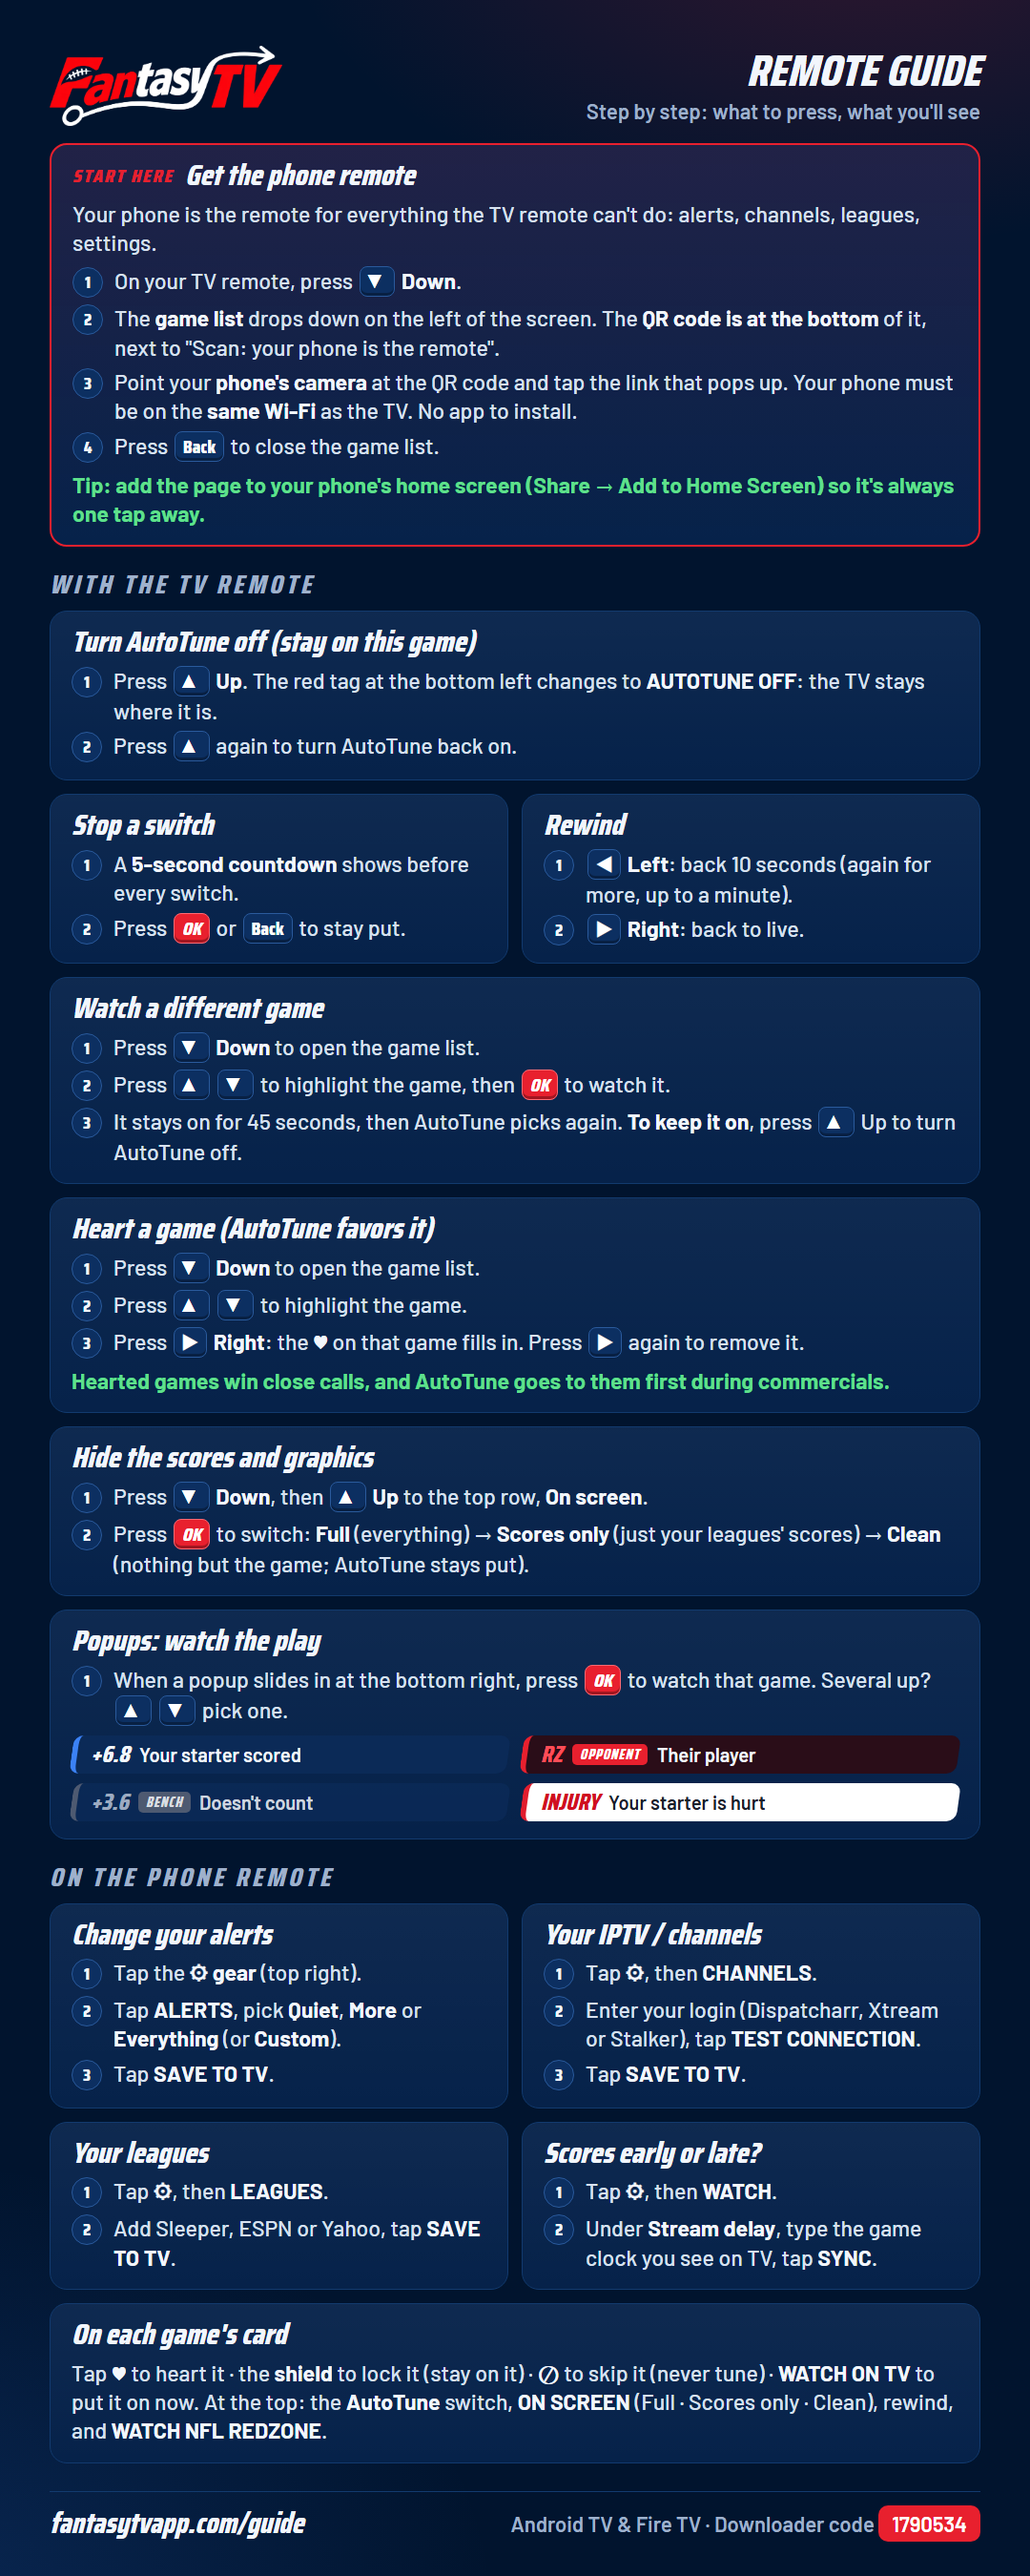
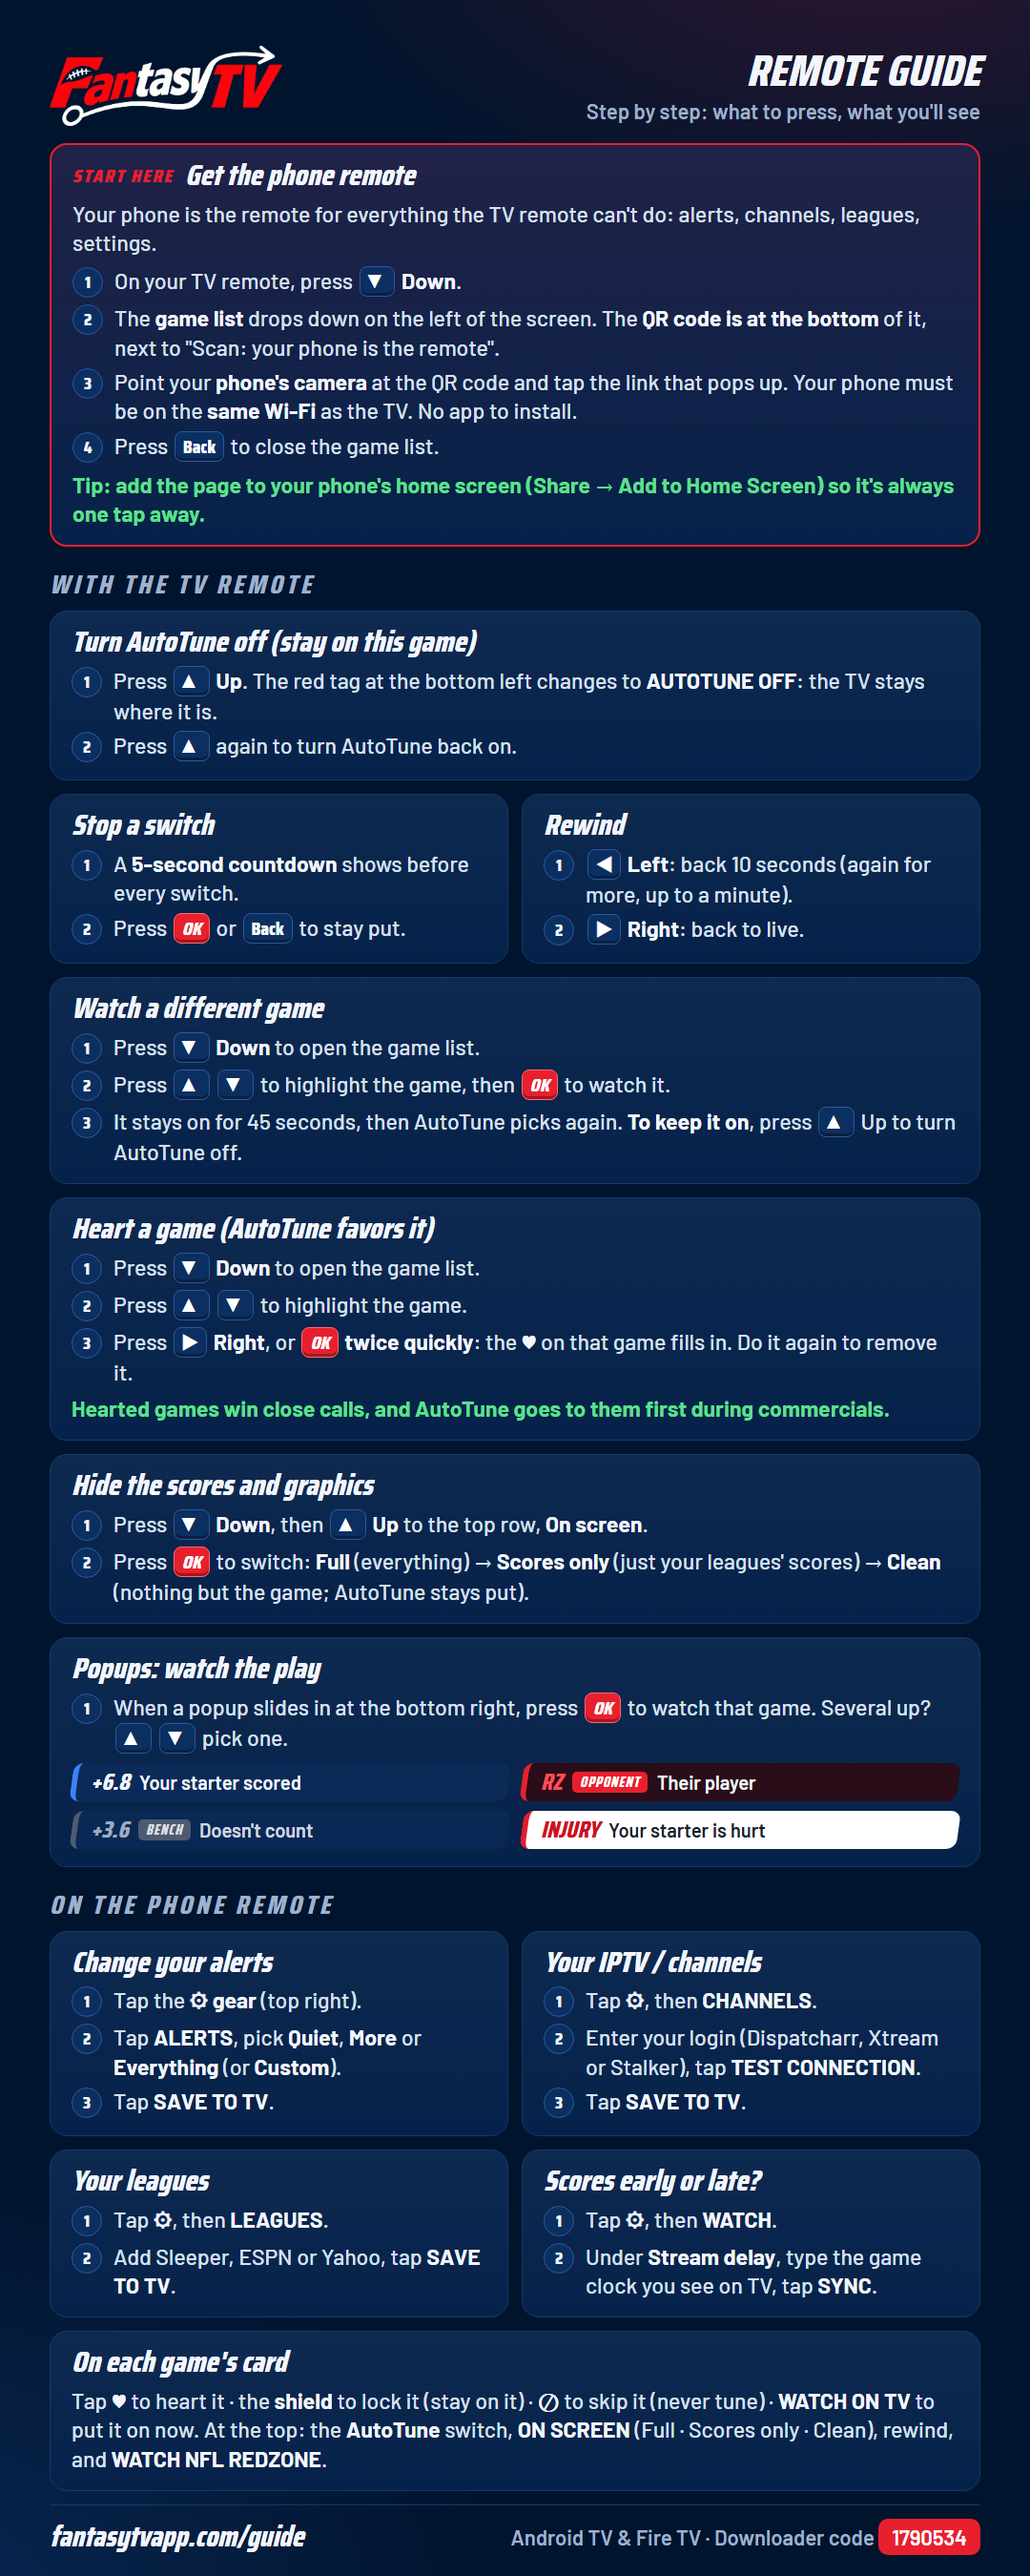
1.0.60: fixes Shield crashes and the picture jumping back (largeHeap, rewind buffer sized to memory, clean restart after a provider reconnect); AutoTune no longer hops between commercials; OK twice hearts a game

Changed region(s): [[0.0306, 0.4978, 0.9778, 0.9956]]

diff --git a/web/js/tv.js b/web/js/tv.js
@@ -699,6 +699,7 @@ function loop() {
     const key = g.sit.lastPlay.text, seen = lastPlaySeen[g.id];
     if (!seen || seen.key !== key) lastPlaySeen[g.id] = { key, at: Date.now() };
     else if (Date.now() - seen.at > 75e3 && !g.onBreak) { g.onBreak = true; g.breakWhy = 'No play for a while'; g.value *= 0.25; g.onField *= 0.25; }
+    g.playAgo = (Date.now() - lastPlaySeen[g.id].at) / 1000;   // seconds since its last new play (as your screen has it)
   }
   const cur = game(auto.current);
   // A missing score bug alone is often a replay, a sideline shot or a graphic, mid-drive. Believe it at once when ESPN
@@ -1404,6 +1405,8 @@ function radarList() {
   return [...(up ? [up] : []), { view: true, id: 'view' }, ...(rz ? [rz] : []), ...live.filter(mine), ...live.filter(g => !mine(g)), ...ranked.filter(g => g.state === 'pre'), ...chk];
 }
 const RADAR_ROWS = 5;   // shown at once; the list scrolls with the focus
+const DOUBLE_OK_MS = 350;   // OK twice within this hearts a game in the list; once watches it after it
+let okWait = null;          // {id, t}: a first OK on a game, waiting to see if a second one comes
 
 function renderRadar() {
   const list = radarList();
@@ -1907,7 +1910,7 @@ const TOUR = [
   { key: '▲', target: '#atTag', title: 'Up: AutoTune on / off',
     text: 'AutoTune switches to the game that matters most to your lineup. Press Up to stay where you are; Up again turns it back on. Before a switch, a 5 second countdown shows: OK or Back cancels it.' },
   { key: '▼', target: '#radar', radar: true, right: true, title: 'Down: every game',
-    text: 'All the live games, yours first. Up and Down move, OK watches a game, ▶ hearts it (AutoTune favors hearted games in close calls), Back closes the list. A game you pick stays on for 45 seconds (less if it goes to a commercial), then AutoTune takes over again. To stay on it, turn AutoTune off with Up.' },
+    text: 'All the live games, yours first. Up and Down move, OK watches a game, ▶ (or OK twice) hearts it (AutoTune favors hearted games in close calls), Back closes the list. A game you pick stays on for 45 seconds (less if it goes to a commercial), then AutoTune takes over again. To stay on it, turn AutoTune off with Up.' },
   { key: 'OK', target: '#radar .viewrow', radar: true, right: true, title: "Top of the list: what's on screen",
     text: "OK on the On screen row switches what sits over the game. Full: everything. Scores only: just your leagues' scores, with small popups for your big plays (NFL RedZone switches to it by itself). Clean: nothing but the game, and AutoTune stays put. The phone remote has the same switch." },
   { key: '◀ ▶', target: '#bug .in', title: 'Left: rewind · Right: live',
@@ -2044,15 +2047,36 @@ function onKey(e) {
   else if (k === 'ArrowRight' && list[radarFocus] && !list[radarFocus].redzone && !list[radarFocus].upd && !list[radarFocus].view && !list[radarFocus].chk) handle({ type: 'heart', id: list[radarFocus].id });
   else if (k === 'Enter' && list[radarFocus] && list[radarFocus].chk) handle({ type: 'checkUpdate' });   // the list stays open
   else if (k === 'Enter' && list[radarFocus] && list[radarFocus].view) cycleView();   // the list stays open to switch again
+  else if (k === 'Enter' && list[radarFocus] && !list[radarFocus].upd && !list[radarFocus].redzone) {
+    // A game: OK twice quickly hearts it (like ▶) and stays in the list; once watches it, after a moment's wait for
+    // a second press.
+    const g = list[radarFocus];
+    if (okWait && okWait.id === g.id) {
+      clearTimeout(okWait.t); okWait = null;
+      handle({ type: 'heart', id: g.id });
+      toast(prefs.hearts[g.id] ? `♥ ${g.away.abbr} at ${g.home.abbr}: AutoTune favors it` : `${g.away.abbr} at ${g.home.abbr}: heart removed`);
+    } else {
+      if (okWait) clearTimeout(okWait.t);
+      okWait = { id: g.id, t: setTimeout(() => {
+        okWait = null;
+        if (g.state === 'in') handle({ type: 'pick', id: g.id });
+        radarOpen = false;
+        $('#radar').classList.remove('on');
+        showTicker();   // All Games kept "You're watching" up; it goes after its usual 12 s
+      }, DOUBLE_OK_MS) };
+    }
+  }
   else if (k === 'Enter' && list[radarFocus]) {
     if (list[radarFocus].upd) startUpdate();
     else if (list[radarFocus].redzone) watchRedZone();
-    else if (list[radarFocus].state === 'in') handle({ type: 'pick', id: list[radarFocus].id });
     radarOpen = false;
-    showTicker();   // All Games kept "You're watching" up; it goes after its usual 12 s
+    showTicker();
   }
   else if (k === 'p') handle({ type: 'pause', on: !auto.paused });
-  else if (k === 'Escape' || k === 'Backspace' || k === 'GoBack') { radarOpen = false; $('#ticker').classList.remove('on'); }
+  else if (k === 'Escape' || k === 'Backspace' || k === 'GoBack') {
+    if (okWait) { clearTimeout(okWait.t); okWait = null; }   // Back right after OK: stay where you are
+    radarOpen = false; $('#ticker').classList.remove('on');
+  }
   $('#radar').classList.toggle('on', radarOpen);
   renderRadar();
   e.preventDefault();

diff --git a/web/js/engine.js b/web/js/engine.js
@@ -292,19 +292,17 @@ export class AutoTune {
     // Never sit on an ad while football is on somewhere: when none of your games is playing, any live game that is
     // (yours first, then the most exciting), until one of yours comes back.
     let filler = false;
-    if (breakOk && (!best || best.onBreak || best.id === cur.id)) {
-      // Football right now, not a drive that's about to end (a punt or kick coming, or over in ESPN's newer data):
-      // that's a break of its own a few seconds in. Your starters with the ball first.
-      const playing = live.filter(g => g.id !== cur.id && !g.onBreak && !g.endsWhy && !g.kickComing && ok(g))
-        .sort((a, b) => b.onField - a.onField || b.fav - a.fav || b.excite - a.excite);   // then hearts and favourite teams
+    // Just left a commercial for a fill-in game and landed on another (the two-minute warnings put every game in ads at
+    // once): stay put for 2 minutes rather than hop from ad to ad; only your own starters with the ball move it.
+    const chained = now - (this.adHopAt || 0) < 120e3;
+    if (breakOk && !chained && (!best || best.onBreak || best.id === cur.id)) {
+      // Football right now: a play in the last 45 s (no break reported isn't enough: ESPN can be late to say so), and
+      // not a drive that's about to end (a punt or kick coming, or over in ESPN's newer data). Your starters with the
+      // ball first, then hearts and favourite teams, then the most exciting.
+      const playing = live.filter(g => g.id !== cur.id && !g.onBreak && !g.endsWhy && !g.kickComing && ok(g) && (g.playAgo == null || g.playAgo < 45))
+        .sort((a, b) => b.onField - a.onField || b.fav - a.fav || b.excite - a.excite);
       if (playing.length) { best = playing[0]; filler = best.onField <= 0; }
-      // Every game on a break and yours on a real ad for 30 s: the one whose break began longest ago (a minute or more)
-      // is likeliest back first. Not halftime.
-      else if (seenAd && (cur.breakFor || 0) >= 30) {
-        const back = live.filter(g => g.id !== cur.id && ok(g) && g.statusName !== 'STATUS_HALFTIME' && (g.breakFor || 0) >= 60)
-          .sort((a, b) => b.breakFor - a.breakFor)[0];
-        if (back) return this.ask(back, `${back.away.abbr} at ${back.home.abbr}, back sooner (${cur.away.abbr}-${cur.home.abbr}: commercial)`, now);
-      }
+      // Every game on a break: stay on this one. Guessing which ad ends first only finds another ad.
     }
     if (!best || best.id === cur.id) return {};
     const cooled = now - this.lastSwitch >= this.opts.cooldown * 1000;
@@ -315,6 +313,7 @@ export class AutoTune {
     else if (cur.onField <= 0 && best.onField > 0 && !best.onBreak && now - this.lastSwitch >= 20e3) why = whyBetter(best);
     else if (cooled && best.value > cur.value * this.opts.margin + 0.05) why = whyBetter(best);
     if (!why) return {};
+    if (filler) this.adHopAt = now;   // left a break for a game with none of yours: no second hop for 2 minutes
     return this.ask(best, why, now);
   }
 

diff --git a/site/demo/index.html b/site/demo/index.html
@@ -269,7 +269,7 @@ const TOUR = [
   { key: '▲', target: '#atTag', title: 'Up: AutoTune on / off',
     text: 'AutoTune switches to the game that matters most to your lineup. Press Up to stay where you are; Up again turns it back on. Before a switch, a 5 second countdown shows: OK or Back cancels it.' },
   { key: '▼', target: '#radar', radar: true, right: true, title: 'Down: every game',
-    text: 'All the live games, yours first. Up and Down move, OK watches a game, ▶ hearts it (AutoTune favors hearted games in close calls), Back closes the list. A game you pick stays on for 45 seconds (less if it goes to a commercial), then AutoTune takes over again. To stay on it, turn AutoTune off with Up.' },
+    text: 'All the live games, yours first. Up and Down move, OK watches a game, ▶ (or OK twice) hearts it (AutoTune favors hearted games in close calls), Back closes the list. A game you pick stays on for 45 seconds (less if it goes to a commercial), then AutoTune takes over again. To stay on it, turn AutoTune off with Up.' },
   { key: 'OK', target: '#radar .viewrow', radar: true, right: true, title: "Top of the list: what's on screen",
     text: "OK on the On screen row switches what sits over the game. Full: everything. Scores only: just your leagues' scores, with small popups for your big plays (NFL RedZone switches to it by itself). Clean: nothing but the game, and AutoTune stays put. The phone remote has the same switch." },
   { key: '◀ ▶', target: '#bug .in', title: 'Left: rewind · Right: live',

diff --git a/site/guide/index.html b/site/guide/index.html
@@ -89,7 +89,7 @@
     <div class="gc"><h3>Heart a game (AutoTune favors it)</h3><ol>
       <li><span>Press <span class="k">▼</span> <b>Down</b> to open the game list.</span></li>
       <li><span>Press <span class="k">▲</span> <span class="k">▼</span> to highlight the game.</span></li>
-      <li><span>Press <span class="k">▶</span> <b>Right</b>: the <b>♥</b> on that game fills in. Press <span class="k">▶</span> again to remove it.</span></li>
+      <li><span>Press <span class="k">▶</span> <b>Right</b>, or <span class="k ok">OK</span> <b>twice quickly</b>: the <b>♥</b> on that game fills in. Do it again to remove it.</span></li>
     </ol><p class="tip">Hearted games win close calls, and AutoTune goes to them first during commercials.</p></div>
 
     <div class="gc"><h3>Hide the scores and graphics</h3><ol>

diff --git a/brand/remote-guide.html b/brand/remote-guide.html
@@ -89,7 +89,7 @@
   <div class="card"><h3>Heart a game (AutoTune favors it)</h3><ol>
     <li><span>Press <span class="k">▼</span> <b>Down</b> to open the game list.</span></li>
     <li><span>Press <span class="k">▲</span> <span class="k">▼</span> to highlight the game.</span></li>
-    <li><span>Press <span class="k">▶</span> <b>Right</b>: the <b>♥</b> on that game fills in. Press <span class="k">▶</span> again to remove it.</span></li>
+    <li><span>Press <span class="k">▶</span> <b>Right</b>, or <span class="k ok">OK</span> <b>twice quickly</b>: the <b>♥</b> on that game fills in. Do it again to remove it.</span></li>
   </ol><p class="tip">Hearted games win close calls, and AutoTune goes to them first during commercials.</p></div>
 
   <div class="card"><h3>Hide the scores and graphics</h3><ol>

diff --git a/web/tv.html b/web/tv.html
@@ -581,7 +581,7 @@
   </div>
 
   <div id="radar"><header><span class="mk"></span>ALL GAMES<span class="n"></span></header><div class="list"></div>
-    <footer><div class="qr" id="qr"></div><div class="keys"><span><b>OK</b> watch this game</span><span><b>▶</b> heart it<i class="why">AutoTune favors it in close calls</i></span><span><b>Back</b> close</span><span class="pair">Scan: your phone is the remote</span></div></footer></div>
+    <footer><div class="qr" id="qr"></div><div class="keys"><span><b>OK</b> watch this game</span><span><b>▶</b> or <b>OK</b> twice: heart it<i class="why">AutoTune favors it in close calls</i></span><span><b>Back</b> close</span><span class="pair">Scan: your phone is the remote</span></div></footer></div>
 
   <div id="rewind"></div>
   <div id="update"></div>

diff --git a/android/app/src/main/java/com/fantasytv/app/StreamTap.java b/android/app/src/main/java/com/fantasytv/app/StreamTap.java
@@ -52,17 +52,28 @@ final class StreamTap implements DataSink {
     /** Forget the old channel's bytes (a new channel starts). */
     synchronized void reset() { written = 0; }
 
-    /** The newest TAKE bytes, oldest first, or null while there aren't enough yet. */
-    private synchronized byte[] latest() {
-        if (written < TAKE) return null;
-        byte[] out = new byte[TAKE];
-        long start = written - TAKE;
-        for (int i = 0; i < TAKE; ) {
-            int at = (int) ((start + i) % RING), n = Math.min(TAKE - i, RING - at);
-            System.arraycopy(ring, at, out, i, n);
-            i += n;
+    private byte ringAt(long pos) { return ring[(int) (pos % RING)]; }
+
+    /**
+     * The newest TAKE bytes into the scratch file, straight from the ring and starting on an MPEG-TS packet boundary
+     * (three sync bytes 188 apart): no copy in memory (an 8 MB array every 3 s, beside the rewind buffer, ran a Shield
+     * out of memory). False while there isn't enough yet, or no packet start.
+     */
+    private synchronized boolean latestToFile() throws IOException {
+        if (written < TAKE) return false;
+        long start = written - TAKE, from = -1;
+        for (long p = start; p + 2 * TS < start + 64 * TS; p++)
+            if (ringAt(p) == 0x47 && ringAt(p + TS) == 0x47 && ringAt(p + 2 * TS) == 0x47) { from = p; break; }
+        if (from < 0) return false;
+        long len = (written - from) / TS * TS;
+        try (FileOutputStream f = new FileOutputStream(scratch)) {
+            for (long done = 0; done < len; ) {
+                int at = (int) ((from + done) % RING), n = (int) Math.min(len - done, RING - at);
+                f.write(ring, at, n);
+                done += n;
+            }
         }
-        return out;
+        return true;
     }
 
     /**
@@ -70,17 +81,10 @@ final class StreamTap implements DataSink {
      * decodable). Blocking: call it off the main thread.
      */
     Bitmap grab(int width, int height) {
-        byte[] data = latest();
-        if (data == null) return null;
-        // Start on a packet boundary: three sync bytes 188 apart.
-        int from = -1;
-        for (int i = 0; i + 2 * TS < Math.min(data.length, 64 * TS); i++)
-            if (data[i] == 0x47 && data[i + TS] == 0x47 && data[i + 2 * TS] == 0x47) { from = i; break; }
-        if (from < 0) return null;
-        int len = (data.length - from) / TS * TS;
         MediaMetadataRetriever mmr = new MediaMetadataRetriever();
         try {
-            try (FileOutputStream f = new FileOutputStream(scratch)) { f.write(data, from, len); }
+            if (!latestToFile()) return null;
+            long len = scratch.length();
             mmr.setDataSource(scratch.getAbsolutePath());
             long durUs = 0;
             String d = mmr.extractMetadata(MediaMetadataRetriever.METADATA_KEY_DURATION);

diff --git a/android/app/src/main/java/com/fantasytv/app/Timeshift.java b/android/app/src/main/java/com/fantasytv/app/Timeshift.java
@@ -19,7 +19,9 @@ import java.util.List;
 final class Timeshift {
     private static final String TAG = "FantasyTVTimeshift";
     private static final long KEEP_MS = 60_000;
-    private static final long MAX_BYTES = 120L << 20;
+    // At most 120 MB, and never more than a third of the memory Android gives the app (about 192 MB on a Shield without
+    // largeHeap): a high-bitrate feed then rewinds less far instead of running the app out of memory.
+    private static final long MAX_BYTES = Math.min(120L << 20, Runtime.getRuntime().maxMemory() / 3);
 
     private static final class Chunk {
         final long t; final byte[] data; final long seq;
@@ -62,9 +64,19 @@ final class Timeshift {
         return chunks.isEmpty() ? 0 : (int) ((chunks.getLast().t - chunks.getFirst().t) / 1000);
     }
 
+    /**
+     * Bumped on every reconnect to the provider. Many IPTV servers start a new connection with the last 10–15 seconds
+     * again: stitched onto the buffer, the player saw the game jump back (frozen picture, earlier plays again). So a
+     * reconnect starts the buffer over and ends what's being served, and the player picks up again at live.
+     */
+    private long epoch;
+
     private void read(String u) {
+        boolean first = true;
         while (running && u.equals(url)) {
             HttpURLConnection c = null;
+            if (!first) synchronized (this) { chunks.clear(); bytes = 0; epoch++; notifyAll(); Log.i(TAG, "reconnected: buffer starts over"); }
+            first = false;
             try {
                 c = (HttpURLConnection) new URL(u).openConnection();
                 c.setConnectTimeout(10_000);
@@ -104,9 +116,10 @@ final class Timeshift {
      */
     void serve(OutputStream out, int secondsBack) throws IOException {
         String mine;
-        long seq;
+        long seq, myEpoch;
         synchronized (this) {
             mine = url;
+            myEpoch = epoch;
             // Wait briefly for the first data of a fresh channel.
             long until = System.currentTimeMillis() + 10_000;
             while (chunks.isEmpty() && running && System.currentTimeMillis() < until) {
@@ -121,6 +134,7 @@ final class Timeshift {
             List<byte[]> batch = new ArrayList<>();
             synchronized (this) {
                 if (!running || mine == null || !mine.equals(url)) return;
+                if (epoch != myEpoch) return;   // the provider reconnected: end here, the player reconnects at live
                 long first = chunks.isEmpty() ? seq : chunks.getFirst().seq;
                 if (seq < first) seq = first;   // fell behind the buffer: carry on from its start
                 for (Chunk ch : chunks) if (ch.seq >= seq) batch.add(ch.data);
